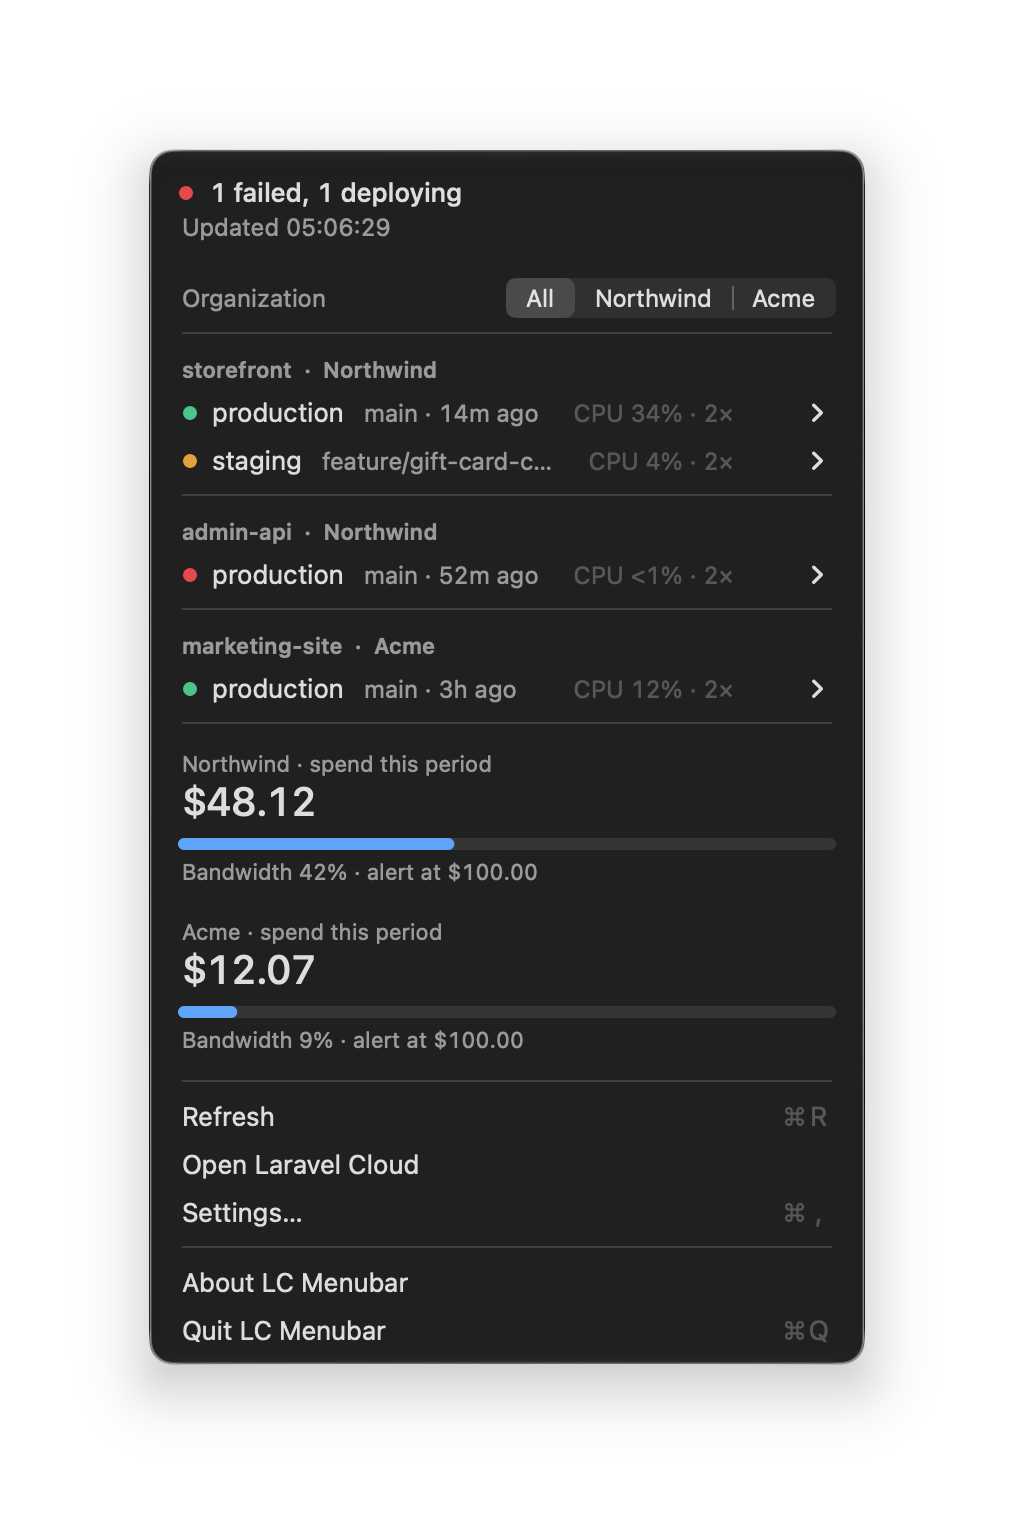
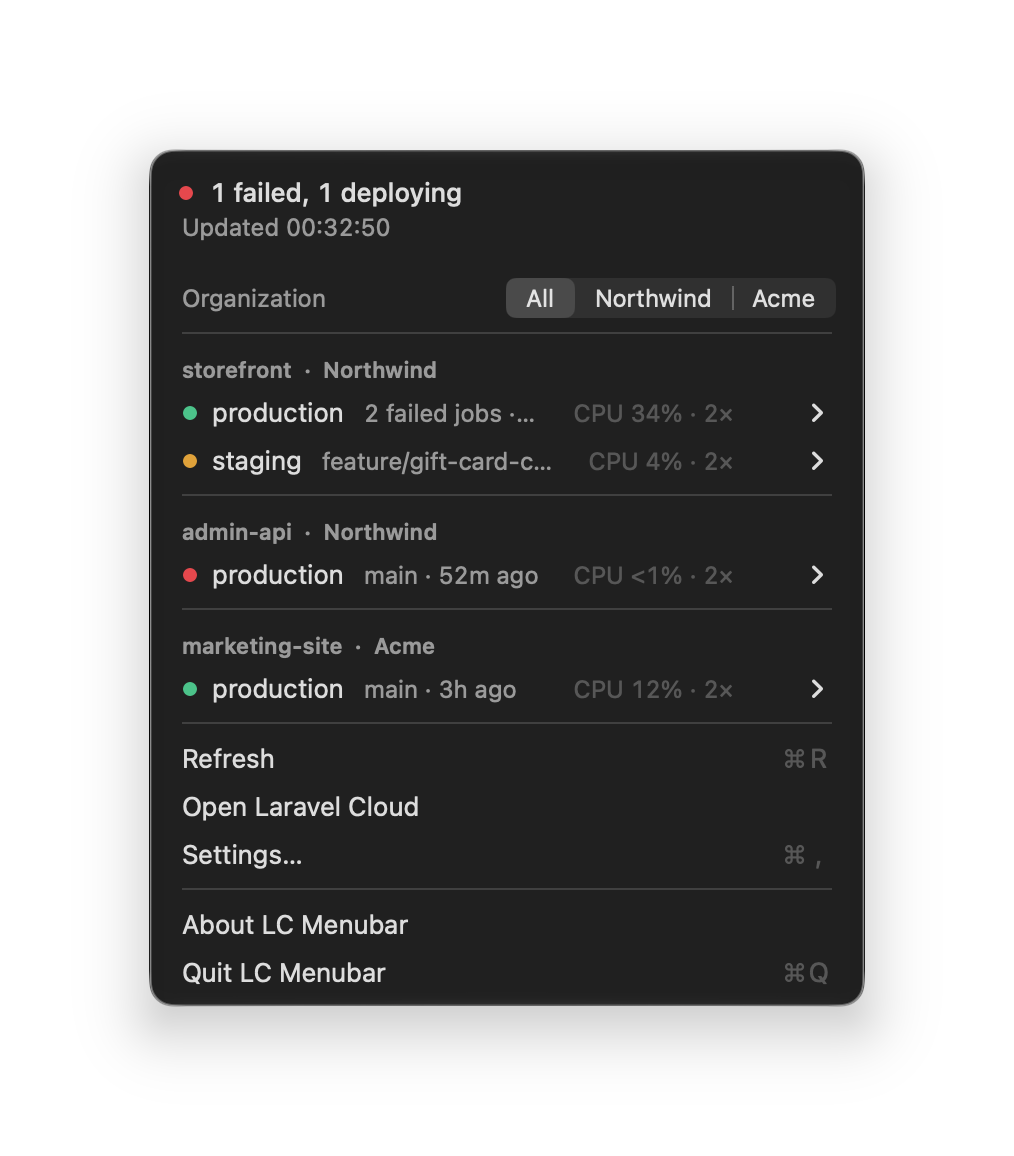
Remove the spend card from the menu

diff --git a/src/main.rs b/src/main.rs
@@ -1705,40 +1705,9 @@ fn failed_jobs_menu(
     menu
 }
 
-/// Cost per project, highest first (at most 6, the rest summed up).
-fn project_costs(u: &api::Usage) -> Vec<(String, String)> {
-    let mut apps: Vec<&(String, i64)> = u.applications.iter().filter(|(_, c)| *c > 0).collect();
-    apps.sort_by_key(|(_, c)| std::cmp::Reverse(*c));
-    let mut rows: Vec<(String, String)> = apps
-        .iter()
-        .take(6)
-        .map(|(n, c)| (truncate(n, 34), api::fmt_money(*c, &u.currency)))
-        .collect();
-    if apps.len() > 6 {
-        let rest: i64 = apps[6..].iter().map(|(_, c)| c).sum();
-        rows.push((
-            format!("{} more", apps.len() - 6),
-            api::fmt_money(rest, &u.currency),
-        ));
-    }
-    rows
-}
-
 /// GitHub page of a commit, showing its diff.
 fn commit_url(repo: &str, hash: &str) -> String {
     format!("https://github.com/{repo}/commit/{hash}")
-}
-
-/// Billing period as `1 – 30 Nov` (or `15 Oct – 14 Nov`); periods are in UTC.
-fn fmt_period(from: chrono::DateTime<Utc>, to: chrono::DateTime<Utc>) -> String {
-    use chrono::Datelike;
-    if (from.year(), from.month()) == (to.year(), to.month()) {
-        format!("{} – {}", from.format("%-d"), to.format("%-d %b"))
-    } else if from.year() == to.year() {
-        format!("{} – {}", from.format("%-d %b"), to.format("%-d %b"))
-    } else {
-        format!("{} – {}", from.format("%-d %b %Y"), to.format("%-d %b %Y"))
-    }
 }
 
 const PERIODS: [Period; 4] = [Period::H1, Period::H6, Period::H24, Period::D7];
@@ -1990,7 +1959,8 @@ const ABOUT_TEXT: &str = "Made by Max in Hamburg, Germany (github.com/mstaack), 
 
 /// Text next to the status dot: the total spend, when enabled.
 fn menu_title(view: &Snapshot, settings: &Settings) -> Option<String> {
-    (settings.show_spend && settings.show_spend_in_menu_bar)
+    settings
+        .show_spend_in_menu_bar
         .then(|| total_spend(view))
         .flatten()
 }
@@ -2379,53 +2349,6 @@ fn build_menu(
             for (i, card) in sub_cards {
                 b.cards.push((vec![top, i], card));
             }
-        }
-    }
-
-    if settings.show_spend && !s.usage.is_empty() {
-        let _ = menu.append(&PredefinedMenuItem::separator());
-        for (account, org, u) in &s.usage {
-            b.owned.push((menu.items().len(), account.clone()));
-            let mut caption = vec![];
-            if let Some(bw) = u.bandwidth_pct {
-                caption.push(format!("Bandwidth {bw}%"));
-            }
-            if let Some((used, total)) = u.credits {
-                caption.push(format!(
-                    "credits {} of {}",
-                    api::fmt_money(used, &u.currency),
-                    api::fmt_money(total, &u.currency)
-                ));
-            }
-            if let Some((threshold, _)) = u.alert {
-                caption.push(format!(
-                    "alert at {}",
-                    api::fmt_money(threshold, &u.currency)
-                ));
-            }
-            let range = u.period.map(|(from, to)| fmt_period(from, to));
-            let title = match (s.usage.len() > 1 && active.is_none(), range) {
-                (true, Some(r)) => format!("{org} · spend {r}"),
-                (true, None) => format!("{org} · spend this period"),
-                (false, Some(r)) => format!("Spend {r}"),
-                (false, None) => "Spend this period".into(),
-            };
-            b.card_in_menu(
-                &menu,
-                Card::Spend {
-                    title,
-                    value: api::fmt_money(u.spend_cents, &u.currency),
-                    caption: if caption.is_empty() {
-                        "Current billing period".into()
-                    } else {
-                        caption.join(" · ")
-                    },
-                    meter: u
-                        .bandwidth_pct
-                        .and_then(|p| charts::meter(p as f64 / 100.0, chart_w(), 6.0)),
-                    rows: project_costs(u),
-                },
-            );
         }
     }
 
@@ -2843,16 +2766,6 @@ fn preview_cards(dir: &str) {
     };
     let mut cards = vec![deployment_card(&env, Utc::now())];
     cards.extend(metric_cards(&m, Period::H1));
-    cards.push(Card::Spend {
-        title: "Spend 1 – 30 Nov".into(),
-        value: api::fmt_money(4_812, "USD"),
-        caption: "Bandwidth 42% · alert at $100.00".into(),
-        meter: charts::meter(0.42, chart_w(), 6.0),
-        rows: vec![
-            ("storefront".into(), "$31.40".into()),
-            ("admin-api".into(), "$16.72".into()),
-        ],
-    });
     let _ = std::fs::create_dir_all(dir);
     for dark in [false, true] {
         for (i, c) in cards.iter().enumerate() {
@@ -2895,20 +2808,7 @@ mod tests {
     use super::*;
 
     #[test]
-    fn formats_billing_period() {
-        let d = |s: &str| s.parse::<chrono::DateTime<Utc>>().unwrap();
-        assert_eq!(
-            fmt_period(d("2026-11-01T00:00:00Z"), d("2026-11-30T23:59:59Z")),
-            "1 – 30 Nov"
-        );
-        assert_eq!(
-            fmt_period(d("2026-10-15T00:00:00Z"), d("2026-11-14T23:59:59Z")),
-            "15 Oct – 14 Nov"
-        );
-        assert_eq!(
-            fmt_period(d("2026-12-15T00:00:00Z"), d("2027-01-14T23:59:59Z")),
-            "15 Dec 2026 – 14 Jan 2027"
-        );
+    fn builds_commit_url() {
         assert_eq!(
             commit_url("acme/shop", "abc123"),
             "https://github.com/acme/shop/commit/abc123"

diff --git a/src/menu_views.rs b/src/menu_views.rs
@@ -43,15 +43,6 @@ pub enum Card {
     },
     /// Columns of small label over value.
     Stats { items: Vec<(String, String)> },
-    /// Label, big amount, optional meter and caption.
-    Spend {
-        title: String,
-        value: String,
-        caption: String,
-        meter: Option<Vec<u8>>,
-        /// Name and amount, e.g. cost per project.
-        rows: Vec<(String, String)>,
-    },
     /// Segmented switch (time range, organization). Clicking keeps the menu open.
     Segments {
         kind: Segment,
@@ -93,13 +84,6 @@ impl Card {
                 dim,
             } => (2u8, title, value, caption, png, chart_h.to_bits(), dim).hash(&mut h),
             Card::Stats { items } => (3u8, items).hash(&mut h),
-            Card::Spend {
-                title,
-                value,
-                caption,
-                meter,
-                rows,
-            } => (4u8, title, value, caption, meter, rows).hash(&mut h),
             Card::Segments {
                 kind,
                 title,
@@ -616,59 +600,6 @@ mod imp {
                 // The native separator below brings 6 pt of its own above its line;
                 // 2 pt here makes the gap below equal the 8 pt above.
                 l.finish(2.0)
-            }
-            Card::Spend {
-                title,
-                value,
-                caption,
-                meter,
-                rows,
-            } => {
-                let mut l = Layout::new(mtm, 8.0);
-                l.text(title, 11.0, Tone::Secondary, regular, 14.0);
-                l.text(value, 20.0, Tone::Primary, medium, 26.0);
-                if let Some(png) = meter
-                    && let Some(iv) = image_view(mtm, png, w, 6.0)
-                {
-                    let y = l.y + 4.0;
-                    l.put(
-                        iv.into_super().into_super(),
-                        INSET,
-                        y,
-                        w,
-                        6.0,
-                        Anchor::Stretch,
-                    );
-                    l.y += 14.0;
-                }
-                l.text(caption, 11.0, Tone::Secondary, regular, 14.0);
-                if !rows.is_empty() {
-                    l.y += 6.0;
-                }
-                for (name, amount) in rows {
-                    let n = label(mtm, name, 12.0, Tone::Primary, regular);
-                    let a = label(mtm, amount, 12.0, Tone::Secondary, regular);
-                    a.setAlignment(NSTextAlignment::Right);
-                    let y = l.y;
-                    l.put(
-                        n.into_super().into_super(),
-                        INSET,
-                        y,
-                        w * 0.7,
-                        16.0,
-                        Anchor::Left,
-                    );
-                    l.put(
-                        a.into_super().into_super(),
-                        INSET + w * 0.5 + 2.0,
-                        y,
-                        w * 0.5,
-                        16.0,
-                        Anchor::Right,
-                    );
-                    l.y += 17.0;
-                }
-                l.finish(8.0)
             }
         }
     }

diff --git a/src/charts.rs b/src/charts.rs
@@ -290,41 +290,6 @@ pub fn bar_chart(total: &[f64], errors: &[f64], w_pt: f32, h_pt: f32) -> Option<
     png(p)
 }
 
-/// Horizontal meter (e.g. bandwidth allowance). Turns amber above 80 %, red above 95 %.
-pub fn meter(fraction: f64, w_pt: f32, h_pt: f32) -> Option<Vec<u8>> {
-    let mut p = canvas(w_pt, h_pt)?;
-    let (w, h) = (p.width() as f32, p.height() as f32);
-    let radius = h / 2.0;
-    let track = rounded_rect(0.0, 0.0, w, h, radius)?;
-    p.fill_path(
-        &track,
-        &paint(NEUTRAL.with_alpha(55)),
-        FillRule::Winding,
-        Transform::identity(),
-        None,
-    );
-    let f = fraction.clamp(0.0, 1.0) as f32;
-    if f > 0.0 {
-        let color = if f > 0.95 {
-            NEGATIVE
-        } else if f > 0.8 {
-            WARNING
-        } else {
-            Hue::Blue.rgba()
-        };
-        if let Some(fill) = rounded_rect(0.0, 0.0, (w * f).max(h), h, radius) {
-            p.fill_path(
-                &fill,
-                &paint(color),
-                FillRule::Winding,
-                Transform::identity(),
-                None,
-            );
-        }
-    }
-    png(p)
-}
-
 fn rounded_rect(x: f32, y: f32, w: f32, h: f32, r: f32) -> Option<tiny_skia::Path> {
     let r = r.min(w / 2.0).min(h / 2.0);
     let k = 0.552_284_8 * r;
@@ -611,8 +576,6 @@ mod tests {
         assert_eq!(decode_size(&png), (520, 80));
         let png = bar_chart(&[10.0, 20.0, 5.0], &[0.0, 2.0, 0.0], 260.0, 32.0).unwrap();
         assert_eq!(decode_size(&png), (520, 64));
-        let png = meter(0.42, 260.0, 6.0).unwrap();
-        assert_eq!(decode_size(&png), (520, 12));
     }
 
     #[test]

diff --git a/src/poller.rs b/src/poller.rs
@@ -158,7 +158,7 @@ impl Poller {
                         self.fetch_metrics(&s, false).await;
                         self.publish_metrics(&s, &on_snapshot);
                     }
-                    poll_api = s.show_spend && self.usage.is_empty();
+                    poll_api = s.show_spend_in_menu_bar && self.usage.is_empty();
                 }
                 Some(Command::SetAccounts(accounts)) => {
                     self.accounts = accounts;
@@ -302,7 +302,7 @@ impl Poller {
             if let Some(org) = self.orgs.get(&account) {
                 apps.extend(org.apps.iter().cloned());
             }
-            if settings.show_spend
+            if settings.show_spend_in_menu_bar
                 && self
                     .usage
                     .get(&account)
@@ -427,7 +427,7 @@ impl Poller {
                 .flatten();
         }
 
-        let usage = if settings.show_spend {
+        let usage = if settings.show_spend_in_menu_bar {
             self.accounts
                 .iter()
                 .filter_map(|(account, _)| {

diff --git a/src/windows.rs b/src/windows.rs
@@ -398,8 +398,7 @@ footer.status:has(.msg:empty){display:none}
     </div>
     <h2>Spend</h2>
     <div class="card">
-      <div class="row"><div class="grow">Show spend for the current billing period<span class="hint">Refreshed every 10 minutes</span></div><input type="checkbox" class="switch" data-k="show_spend"></div>
-      <div class="row"><div class="grow">Show the total next to the status dot</div><input type="checkbox" class="switch" data-k="show_spend_in_menu_bar"></div>
+      <div class="row"><div class="grow">Show the spend for the current billing period next to the status dot<span class="hint">Refreshed every 10 minutes</span></div><input type="checkbox" class="switch" data-k="show_spend_in_menu_bar"></div>
     </div>
   </section>
 

diff --git a/src/settings.rs b/src/settings.rs
@@ -28,7 +28,6 @@ pub struct Settings {
     /// Application (project) ids hidden with all their environments, also ones
     /// added later.
     pub hidden_apps: HashSet<String>,
-    pub show_spend: bool,
     pub show_spend_in_menu_bar: bool,
     /// Connected organizations; tokens live in the Keychain under each id.
     pub accounts: Vec<Account>,
@@ -80,7 +79,6 @@ impl Default for Settings {
             show_replicas_in_menu: true,
             hidden_envs: HashSet::new(),
             hidden_apps: HashSet::new(),
-            show_spend: true,
             show_spend_in_menu_bar: false,
             accounts: vec![],
             favorite_commands: vec![

diff --git a/README.md b/README.md
@@ -37,7 +37,7 @@ xattr -dr com.apple.quarantine "/Applications/LC Menubar.app"
 
 <table>
   <tr>
-    <td align="center" valign="top" width="33%"><img src="docs/screenshots/menu.png" alt="Menu with environments and spend"><br><sub>Environments and spend</sub></td>
+    <td align="center" valign="top" width="33%"><img src="docs/screenshots/menu.png" alt="Menu with environments"><br><sub>Environments</sub></td>
     <td align="center" valign="top" width="33%"><img src="docs/screenshots/environment.png" alt="Environment card with charts and actions"><br><sub>Environment card</sub></td>
     <td align="center" valign="top" width="33%"><img src="docs/screenshots/failed.png" alt="Failed deployment with its reason"><br><sub>A failed deploy</sub></td>
   </tr>

diff --git a/CHANGELOG.md b/CHANGELOG.md
@@ -7,6 +7,10 @@ What's new page in Settings, are taken from this file.
 
 ## [Unreleased]
 
+### Changed
+
+- The spend card is gone from the menu. The spend total can still be shown next to the status dot (Settings › Menu and metrics).
+
 ## [0.1.7] - 2026-11-16
 
 ### Added
